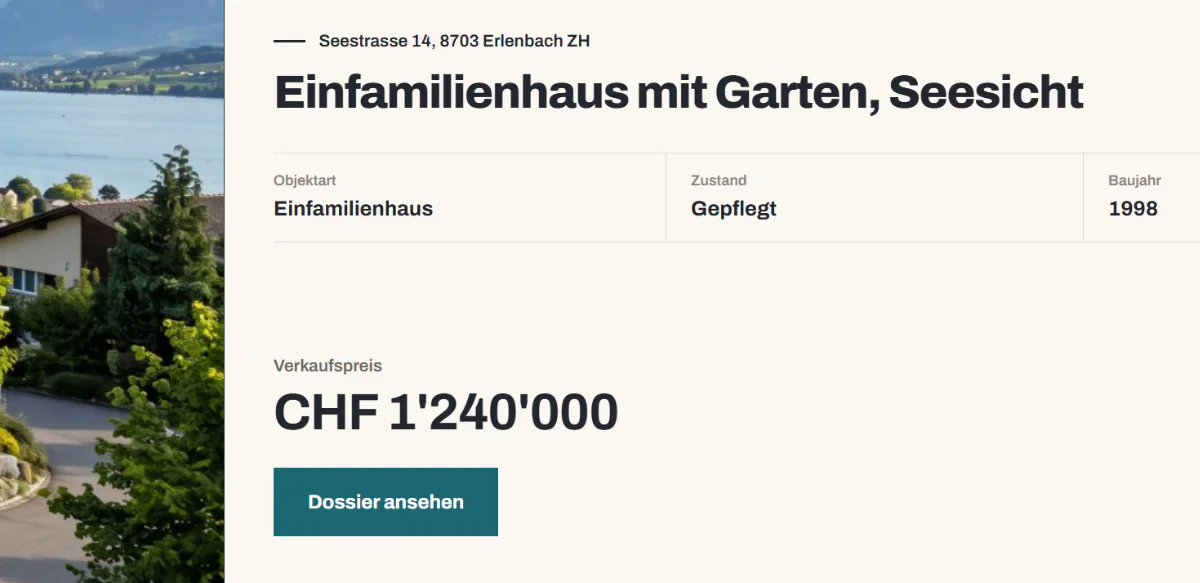
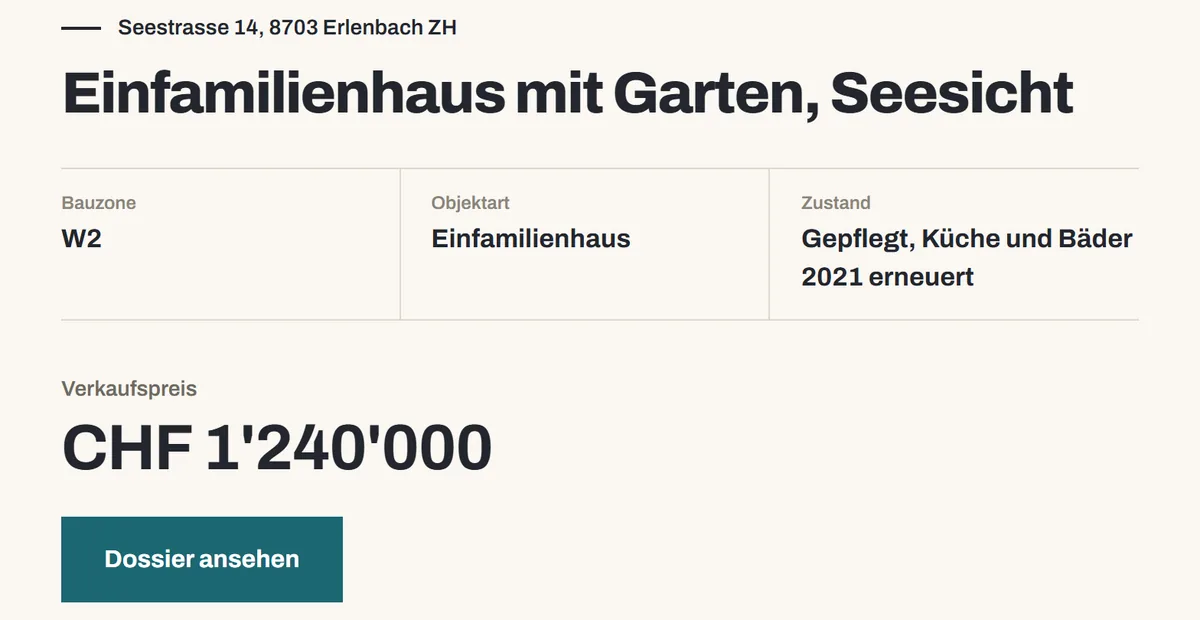
Spezialist-Collage: Dossier und Exposé von Seestrasse 14 mit dem KI-Haus
Dossier-Deckblatt und Exposé-Einschub zeigten noch das alte Beispielfoto
mit Seesicht, das in der App aus Anonymisierungsgründen ersetzt wurde
(#459/#542). Neu stammen beide aus dem Muster-Mandanten mit dem hellen
KI-Haus wie Hero-Deckblatt und Beispiel-Ausschnitte: Seestrasse 14,
8703 Erlenbach ZH, Verkaufspreis CHF 1'240'000.

- Dossier: Deckblatt der Verkaufsdokumentation (PDF-Seite 1, 1684 px)
  auf 1300 px verkleinert und wie bisher auf 916 px Höhe geschnitten.
- Exposé: oberer Teil der öffentlichen Exposé-Seite bei 784 px Viewport
  (Faktor 2), Block von Adresszeile bis Knopf ohne Foto, 1568×810 auf
  1200×620 verkleinert; das heutige Layout stapelt das Foto in voller
  Breite, der frühere 2:1-Block mit Fotostreifen existiert nicht mehr.
  Höhe im Markup 583 → 620.
- Alt-Texte DE/FR/EN: Adresse und Verkaufspreis ergänzt; das Exposé zeigt
  Bauzone, Objektart und Zustand statt Objektart, Zustand und Baujahr.

diff --git a/src/pages/Home.jsx b/src/pages/Home.jsx
@@ -316,7 +316,7 @@ const AUDIENCE_MEDIA = [
     layout: 'combo',
     imgs: [
       { src: audDossier1080, srcSet: `${audDossier1080} 1080w, ${audDossier1300} 1300w`, sizes: '(max-width: 760px) 78vw, 48vw', width: 1300, height: 916, altKey: 'alt', part: 'main' },
-      { src: audExpose800, srcSet: `${audExpose800} 800w, ${audExpose1200} 1200w`, sizes: '(max-width: 760px) 55vw, 32vw', width: 1200, height: 583, altKey: 'alt2', part: 'inset' },
+      { src: audExpose800, srcSet: `${audExpose800} 800w, ${audExpose1200} 1200w`, sizes: '(max-width: 760px) 55vw, 32vw', width: 1200, height: 620, altKey: 'alt2', part: 'inset' },
     ],
   },
 ]
